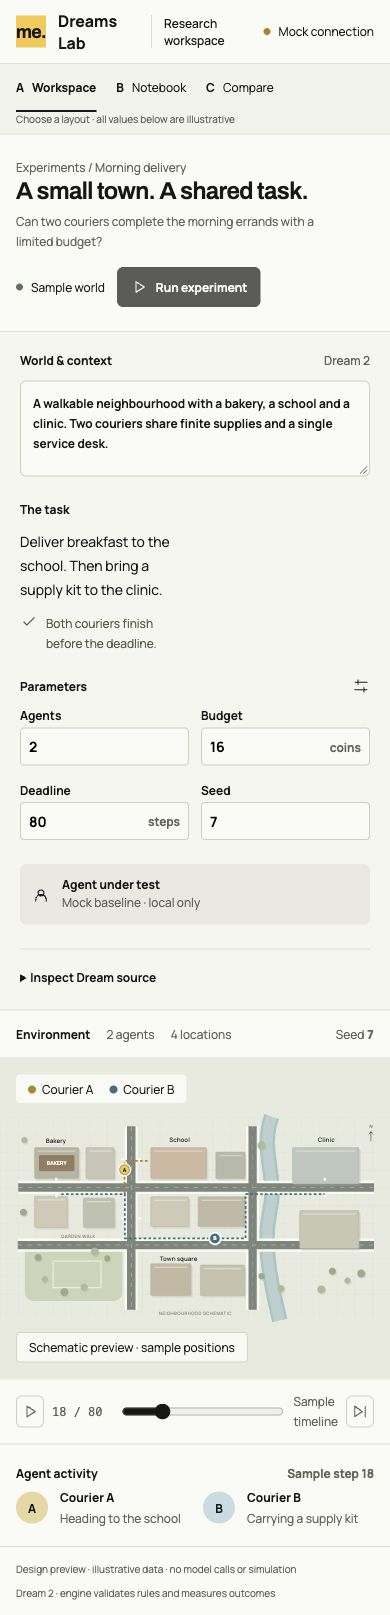
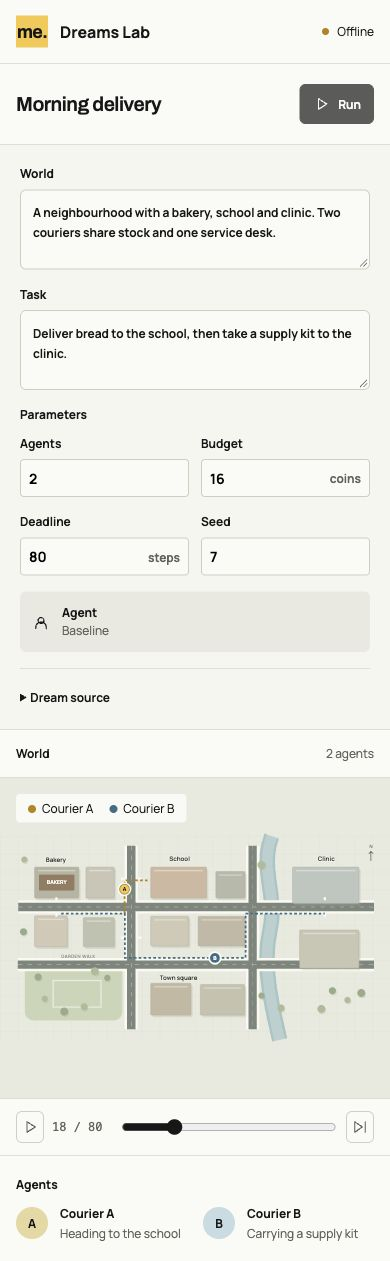
Simplify the selected Dreams Lab workspace

diff --git a/tests/dreams-lab-design.test.ts b/tests/dreams-lab-design.test.ts
@@ -10,16 +10,23 @@ it('renders three self-contained, distinctly structured previews without runtime
   ['workspace','notebook','compare'].forEach((name,i)=>{
     const html=readFileSync(`dreams-lab/design/${name}.html`,'utf8');
     expect(html).toContain(`class="${structures[i]}"`);
-    expect(html).toContain('Design preview · illustrative data · no model calls or simulation');
+    if(name==='workspace'){
+      const bodyText=html.slice(html.indexOf('<body')).replace(/<[^>]*>/g,'');
+      expect(bodyText).not.toMatch(/\b(demo|illustrative|sample|prototype|preview|mock)\b/i);
+      expect(html).not.toContain('aria-label="Design variants"');
+      expect(html).toContain('aria-label="Muse connection: offline"');
+      expect(html).toContain('<summary>Dream source</summary>');
+    }else expect(html).toContain('Design preview · illustrative data · no model calls or simulation');
     expect(html).toContain('data:font/woff2;base64,');
     expect(html).not.toMatch(/<script\b|<iframe\b|src="https?:/);
-    expect(html).toContain('disabled title="Design preview; simulation controls are not connected"');
+    expect(html.includes(name==='notebook' ? 'aria-label="Run experiment" disabled' : 'aria-label="Play" disabled')).toBe(true);
     expect(html.split('\n').length).toBeLessThan(200);
     for(const [,href] of html.matchAll(/href="([^"#][^"]*)"/g)){
       if(href!.startsWith('https:'))continue;
       expect(existsSync(new URL(href!,new URL(`../dreams-lab/design/${name}.html`,import.meta.url)))).toBe(true);
     }
   });
+  expect(readFileSync('dreams-lab/index.html','utf8')).toBe(readFileSync('dreams-lab/design/workspace.html','utf8'));
 });
 
 it('shows an example accepted by the canonical Dream compiler without introducing a language fork',()=>{

diff --git a/dreams-lab/preview.css b/dreams-lab/preview.css
@@ -276,3 +276,29 @@ summary{font-size:12px;font-weight:650;cursor:pointer;line-height:24px}
 
 
 .workspace-map>.map-wrap,.notebook-world>.map-wrap{height:100%;min-height:0}
+
+body.workspace-page{height:100dvh;min-height:640px;display:flex;flex-direction:column}
+.workspace-page main{display:flex;flex-direction:column;flex:1;min-height:0}
+.workspace-page .topbar{flex:none}
+.workspace-page .workspace-title{height:auto;min-height:80px;padding-block:16px;flex:none}
+.workspace-page .workspace-layout{height:auto;min-height:0;flex:1}
+.workspace-page .brief-panel{overflow-y:auto;gap:16px;padding:20px}
+.workspace-page .section-label{margin-bottom:0}
+.workspace-page .field{gap:8px}
+.workspace-page .brief-panel section>div.section-label{margin-bottom:12px}
+.workspace-page textarea{min-height:80px;height:80px}
+.workspace-page .world-toolbar{flex:none}
+.workspace-page .world-toolbar h2{font:650 12px/20px Manrope,sans-serif;letter-spacing:0}
+.workspace-page .world-column{min-height:0}
+.workspace-page .workspace-map{flex:1;min-height:240px;max-height:none}
+.workspace-page .timeline,.workspace-page .activity{flex:none}
+.workspace-page .activity-row{grid-template-columns:1fr 1fr}
+.workspace-page .activity .section-label{margin-bottom:12px}
+@media(max-width:720px){
+  body.workspace-page{height:auto;min-height:100dvh}
+  .workspace-page .workspace-title{flex-direction:row;align-items:center;gap:12px}
+  .workspace-page .workspace-title h1{font-size:20px;line-height:28px}
+  .workspace-page .brief-panel{display:flex;overflow:visible}
+  .workspace-page .workspace-map{flex:none;height:320px}
+  .workspace-page .activity{min-height:0}
+}

diff --git a/docs/dreams-lab.md b/docs/dreams-lab.md
@@ -7,20 +7,23 @@ that brief into Dream source. The compiler checks the proposal; the engine runs
 the supported rules and records what happened. Change a parameter, run again
 and compare the outcome.
 
-The new `dreams-lab/` folder starts with three interface variants for approval.
+The new `dreams-lab/` folder opens the selected Workspace A layout directly.
+The earlier Notebook and Compare layouts remain design references.
 All three inherit Minimum Effort's fonts, colors and spacing. The maps, agent
 positions and results are illustrative. The simulation controls are disabled.
 There are no model calls or generated environments in these previews.
 
-## A · Workspace
+## Workspace A
 
-The environment stays in view. The brief and parameters sit at the left, with
-individual agent activity below the map. This layout gives the most space to
-watching and debugging one run. Detailed comparisons would use another view.
+The environment stays in view. World and Task fields and parameters sit at the
+left, with individual agent activity below the map. The design chooser,
+explanatory footer, repeated status labels and helper paragraphs are removed.
+One compact connection state remains in the header; Dream source opens when
+needed. Detailed comparisons would use another view.
 
 ![Workspace: a brief beside a large environment and agent activity](media/dreams-lab-workspace.jpg)
 
-## B · Notebook
+## Earlier option B · Notebook
 
 A research question, environment and outcome form one continuous experiment.
 This layout gives more context to someone preparing or explaining a study,
@@ -28,7 +31,7 @@ with less space for watching several agents at once.
 
 ![Notebook: the question, environment and sample outcome in sequence](media/dreams-lab-notebook.jpg)
 
-## C · Compare
+## Earlier option C · Compare
 
 Two runs share a timeline. The changed parameter stays visible above their
 environments, with a results table below. This layout puts repeated experiments
@@ -44,7 +47,7 @@ From the repository root, with its existing dependencies installed:
 npm run lab:design
 ```
 
-Open the local address printed by Vite. Links across the top switch variants.
+Open the local address printed by Vite to go straight to Workspace A.
 The source disclosure uses a native keyboard-accessible control. Brief and
 parameter fields are preview controls and do not alter the sample map or
 results. No prototype state is sent or saved by the app.
@@ -55,7 +58,7 @@ from the illustrative two-courier timeline. No new Dream vocabulary was added.
 
 ## Port only what we need
 
-After the layout is chosen, the first functional slice should reuse the
+The first functional slice should reuse the
 canonical compiler, bounded scenario rules, observation/action interface and
 recording/replay tools. The [existing Lab](dream/scenarios.md) already exercises
 these with mocked interpretation and policies on a logical network.

diff --git a/docs/evidence/dreams-lab-design/verification.md b/docs/evidence/dreams-lab-design/verification.md
@@ -1,5 +1,31 @@
 # Dreams Lab design review
 
+## Workspace A cleanup
+
+The user selected A and requested an interface without repeated demo labels or
+explanatory text. The root page now opens Workspace directly. Its review tabs,
+breadcrumb, tagline, explanatory footer, map caption, repeated counts and helper
+paragraphs are removed. World and Task have labeled native fields. One compact
+Offline state remains in the header; source opens through a native disclosure.
+
+The current Workspace desktop and mobile captures replace the earlier A views.
+Notebook and Compare captures remain earlier design references. The limits below
+still apply: the interface is static, simulation controls remain disabled and
+no Muse or engine integration is added. The UI copy change does not create
+functional agent runs. No motion was introduced, so existing game recordings
+were retained and no static-screen video was exported.
+
+The focused `tests/dreams-lab-design.test.ts` checks the default entry, removed
+copy, accessible controls, retained standalone Dream source and earlier routes.
+All three checks passed. Native checks at widths 1280 and 390 found no horizontal
+overflow or removed copy in the visible text. Budget and Deadline retain their
+full values. Enter opens Dream source; the collapsed control fits in the desktop
+sidebar. [Current readings](cleanup-checks.json) record those observations.
+The docs build is run after the guide and captures are refreshed. No compiler,
+physics or save code changed, so no full gameplay suite was run for this cleanup.
+
+## Earlier three-layout review
+
 This slice creates a fresh `dreams-lab/` folder with three code-rendered interface
 variants. It does not port or change the engine. The design chooser recorded
 Workspace as the selected composition, and all three variants remain available

diff --git a/dreams-lab/README.md b/dreams-lab/README.md
@@ -3,8 +3,10 @@
 A fresh workspace for the hackathon: describe an environment and a task, build
 it in Dream, run an agent, then change something and compare the outcome.
 
-This first slice is a design review. Choose a workspace before we port the
-compiler, episode runner and recording tools into this app's boundary.
+Workspace A is selected. It opens directly with World and Task fields,
+parameters, the environment, agent activity and a collapsed Dream source view.
+One compact connection status replaces the repeated notices and review controls.
+The compiler, episode runner and recording tools have not been ported yet.
 
 From the repository root, using the existing dependencies:
 
@@ -12,7 +14,8 @@ From the repository root, using the existing dependencies:
 npm run lab:design
 ```
 
-Open the printed local URL. The three views are:
+Open the printed local URL for Workspace. The earlier views remain at
+`design/notebook.html` and `design/compare.html` as design references:
 
 - **Workspace**: the environment takes most of the screen, with a brief beside
   it and agent activity below. Best for watching and debugging one run.
@@ -31,7 +34,7 @@ There is no app storage or model transport.
 
 ## Port in small steps
 
-After a design is chosen, bring over the existing compiler boundary, bounded
+Next, bring over the existing compiler boundary, bounded
 scenario data, observation/action runner and replayable recordings. Keep one
 canonical Dream vocabulary. Then connect a real Muse generation/repair loop and
 an agent policy, with the evaluator owned by the engine. Bind a small physical

diff --git a/dreams-lab/DESIGN.md b/dreams-lab/DESIGN.md
@@ -10,11 +10,13 @@ charcoal for text and actions. Yellow is not body text on a light background.
 
 The three structures differ in information hierarchy, not theme. Workspace
 prioritizes the world, Notebook prioritizes the experiment definition, and
-Compare prioritizes controlled changes and paired outcomes. Source is a
-progressive disclosure. A persistent design-preview notice identifies all
-illustrative data. The chooser recorded Workspace as the selected option;
-the other variants remain available for comparison. The functional port has
-not started in this design slice.
+Compare prioritizes controlled changes and paired outcomes. The user selected
+Workspace A. It now opens directly, with the brief, parameters, world and agent
+activity. Source stays in a native disclosure. Keep the interface free of demo
+labels, explanatory footers, repeated counts and variant navigation. One compact
+connection state belongs in the header. Implementation limitations belong in
+these docs. The other variants remain historical references. The functional
+port has not started in this design slice.
 
 Desktop layouts adapt to stacked controls and readable maps on narrow screens.
 Named native buttons, labeled inputs, keyboard focus and reduced motion apply

diff --git a/README.md b/README.md
@@ -16,11 +16,12 @@ The hackathon direction is a small research workspace: describe an environment
 and a task, let Muse propose Dream source, run an agent and compare what changes
 when you adjust a parameter. The engine owns the rules and measures the outcome.
 
-The fresh [dreams-lab/ workspace](dreams-lab/README.md) starts with three
-[design variants](docs/dreams-lab.md) for review: a world-first workspace, a
-sequential notebook and a comparison bench. These are static interface previews
-with illustrative data. Porting the compiler and runner, connecting Muse and
-binding agents to a physical environment are the next steps.
+The fresh [dreams-lab/ workspace](dreams-lab/README.md) uses the selected
+[Workspace A layout](docs/dreams-lab.md): a brief beside the world, parameters
+and agent activity, with source available when needed. It opens directly,
+without the design chooser or repeated explanatory notices. It is a static
+interface with illustrative data. Porting the compiler and runner, connecting
+Muse and binding agents to a physical environment are the next steps.
 
 ![The Dreams Lab Workspace design preview, with a brief beside the environment](docs/media/dreams-lab-workspace.jpg)
 

diff --git a/docs/media/README.md b/docs/media/README.md
@@ -4,7 +4,9 @@
 
 `dreams-lab-workspace.jpg`, `dreams-lab-notebook.jpg` and
 `dreams-lab-compare.jpg` are native full-page browser captures of three static
-interface variants. Their maps, timelines and results are illustrative design
+interface variants. Workspace is refreshed after selecting A and removing
+the review navigation, explanatory footer and repeated labels. Notebook and
+Compare retain the earlier comparison designs. Their maps, timelines and results are illustrative design
 data. They are not model-generated worlds, simulation runs or performance
 measurements. Mobile captures and viewport checks are kept with
 [the review evidence](../evidence/dreams-lab-design/verification.md).

diff --git a/dreams-lab/PRODUCT.md b/dreams-lab/PRODUCT.md
@@ -21,7 +21,9 @@ agent. Researchers can inspect the generated source and replay a recorded run.
 
 The user requested a fresh `dreams-lab/` folder at the repository root, selective
 reuse of the existing Dream framework, and several interface variants for
-approval before implementation. This folder currently contains design previews.
+approval before implementation. Workspace A is now approved. The user asked to
+remove unnecessary interface text and repeated demo/illustrative notices.
+This folder currently contains design previews.
 Preview runs and metrics are illustrative. There are no model calls, physics,
 evaluation or training results in these previews.
 
